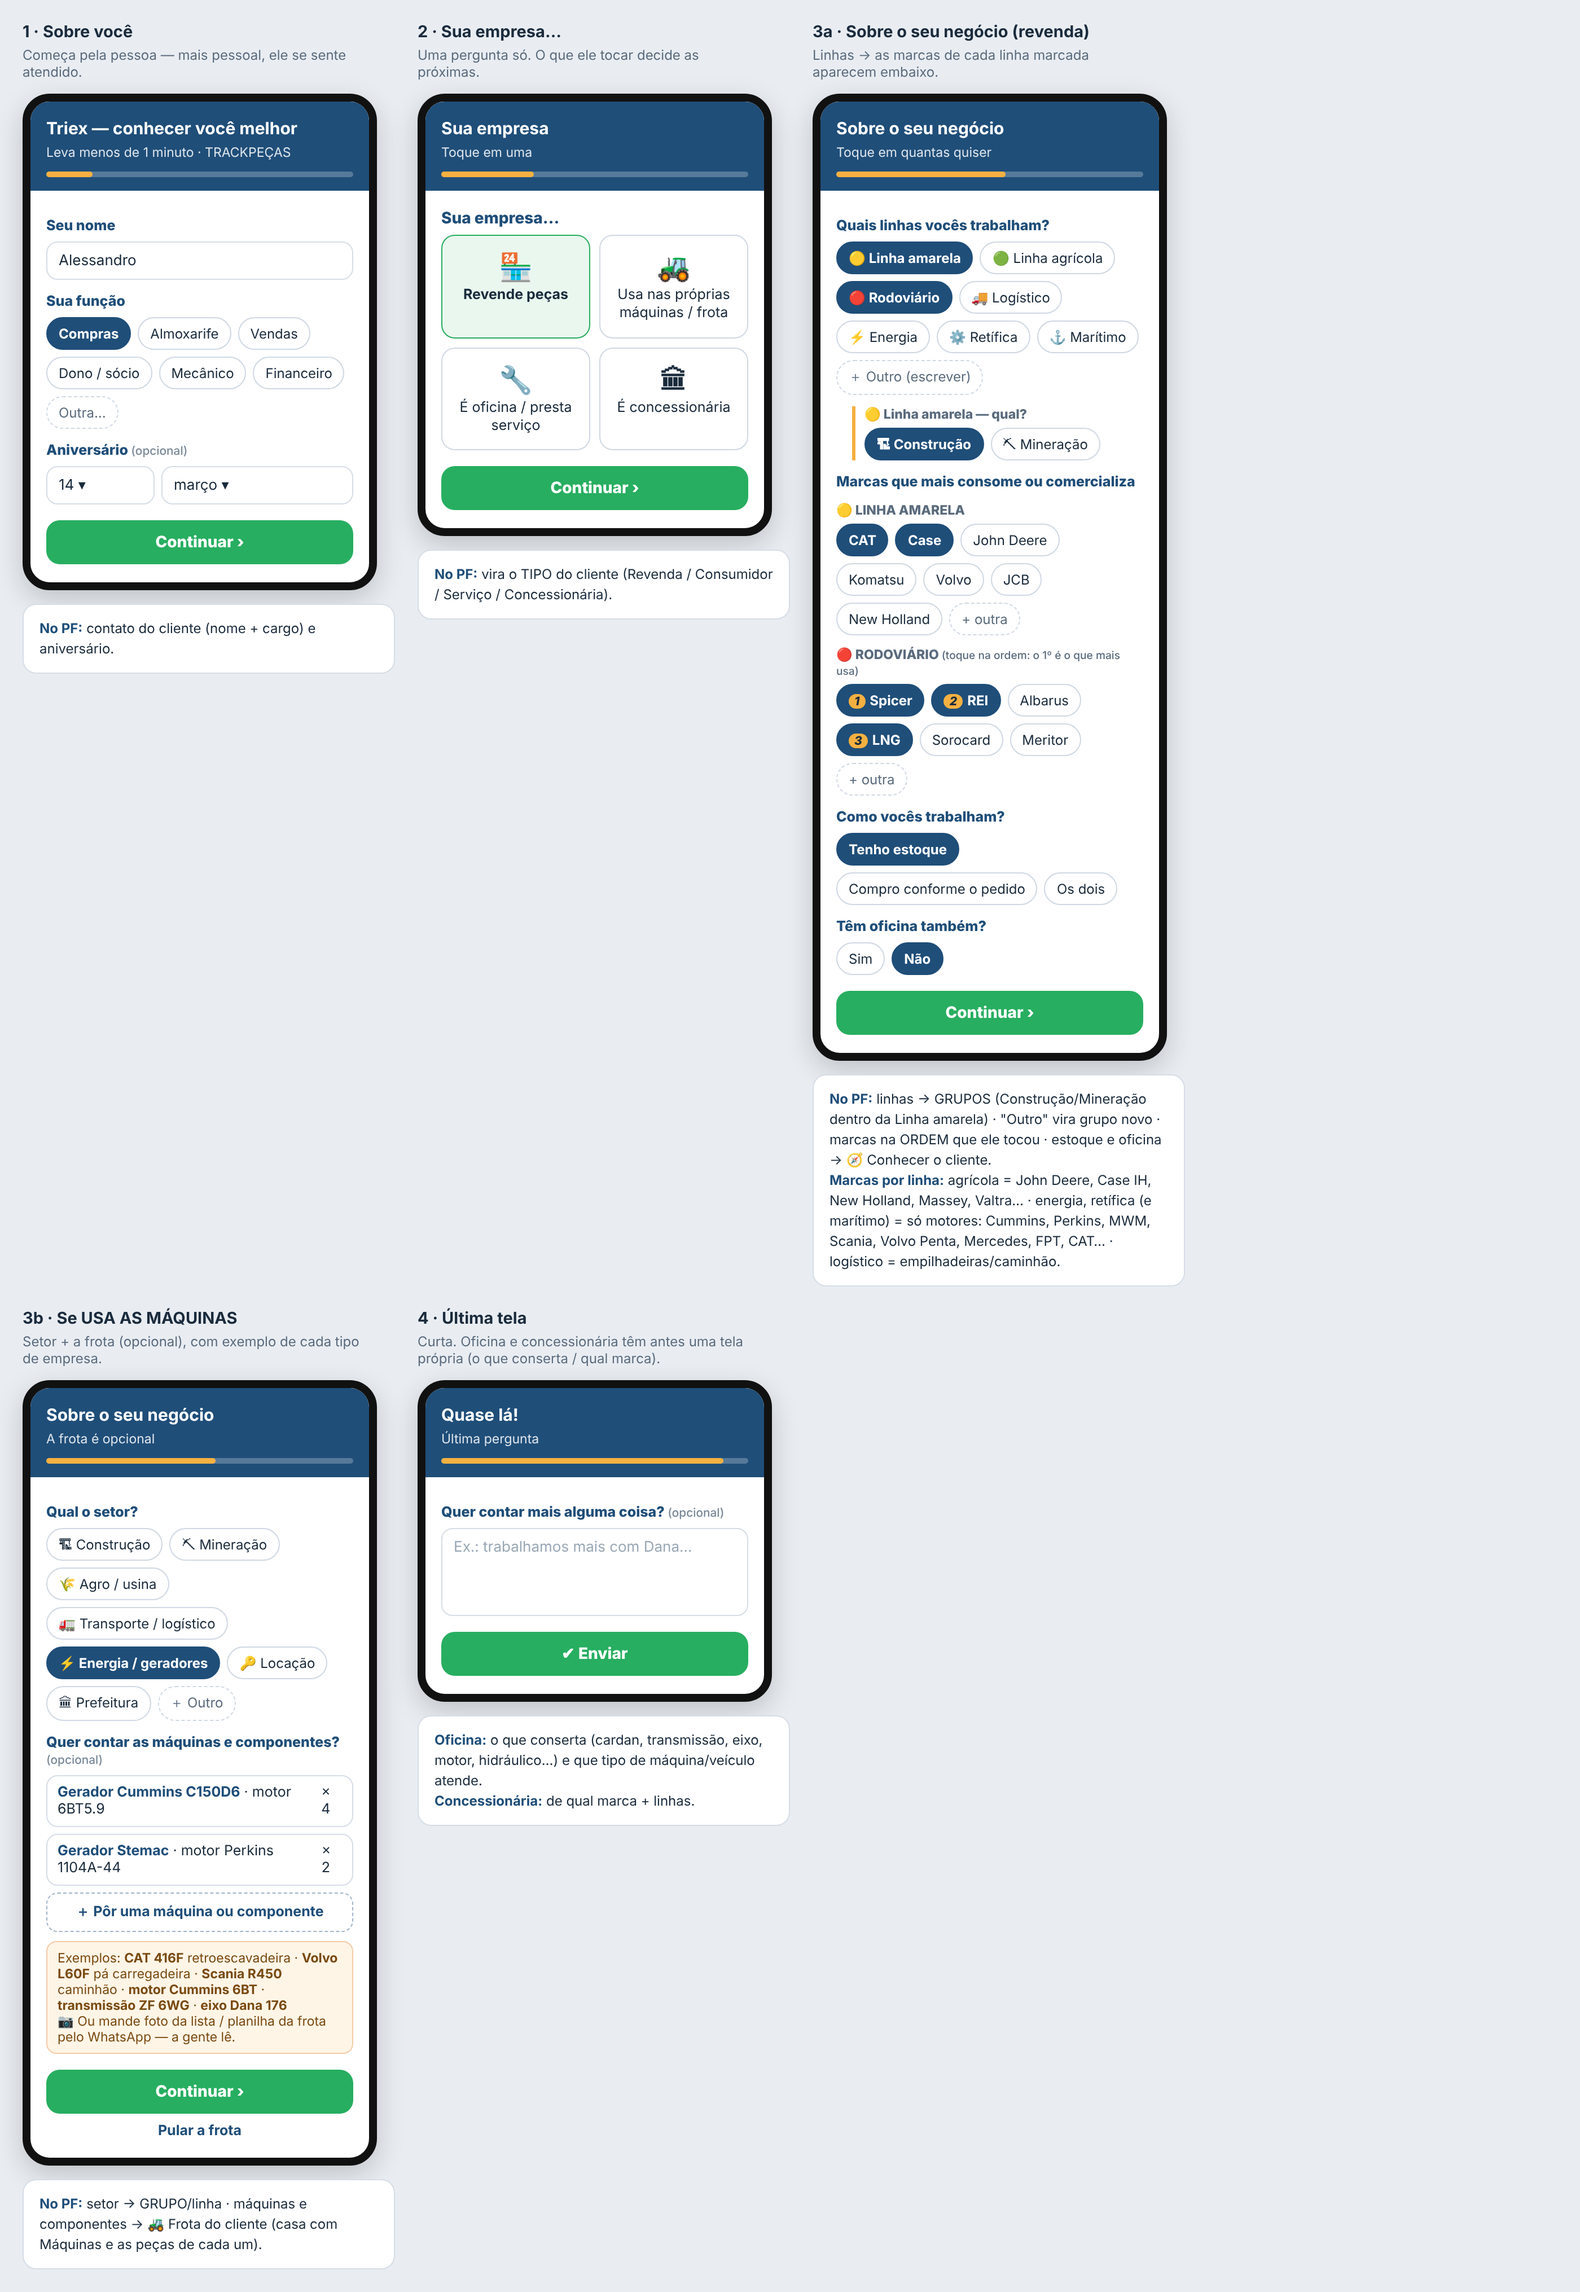
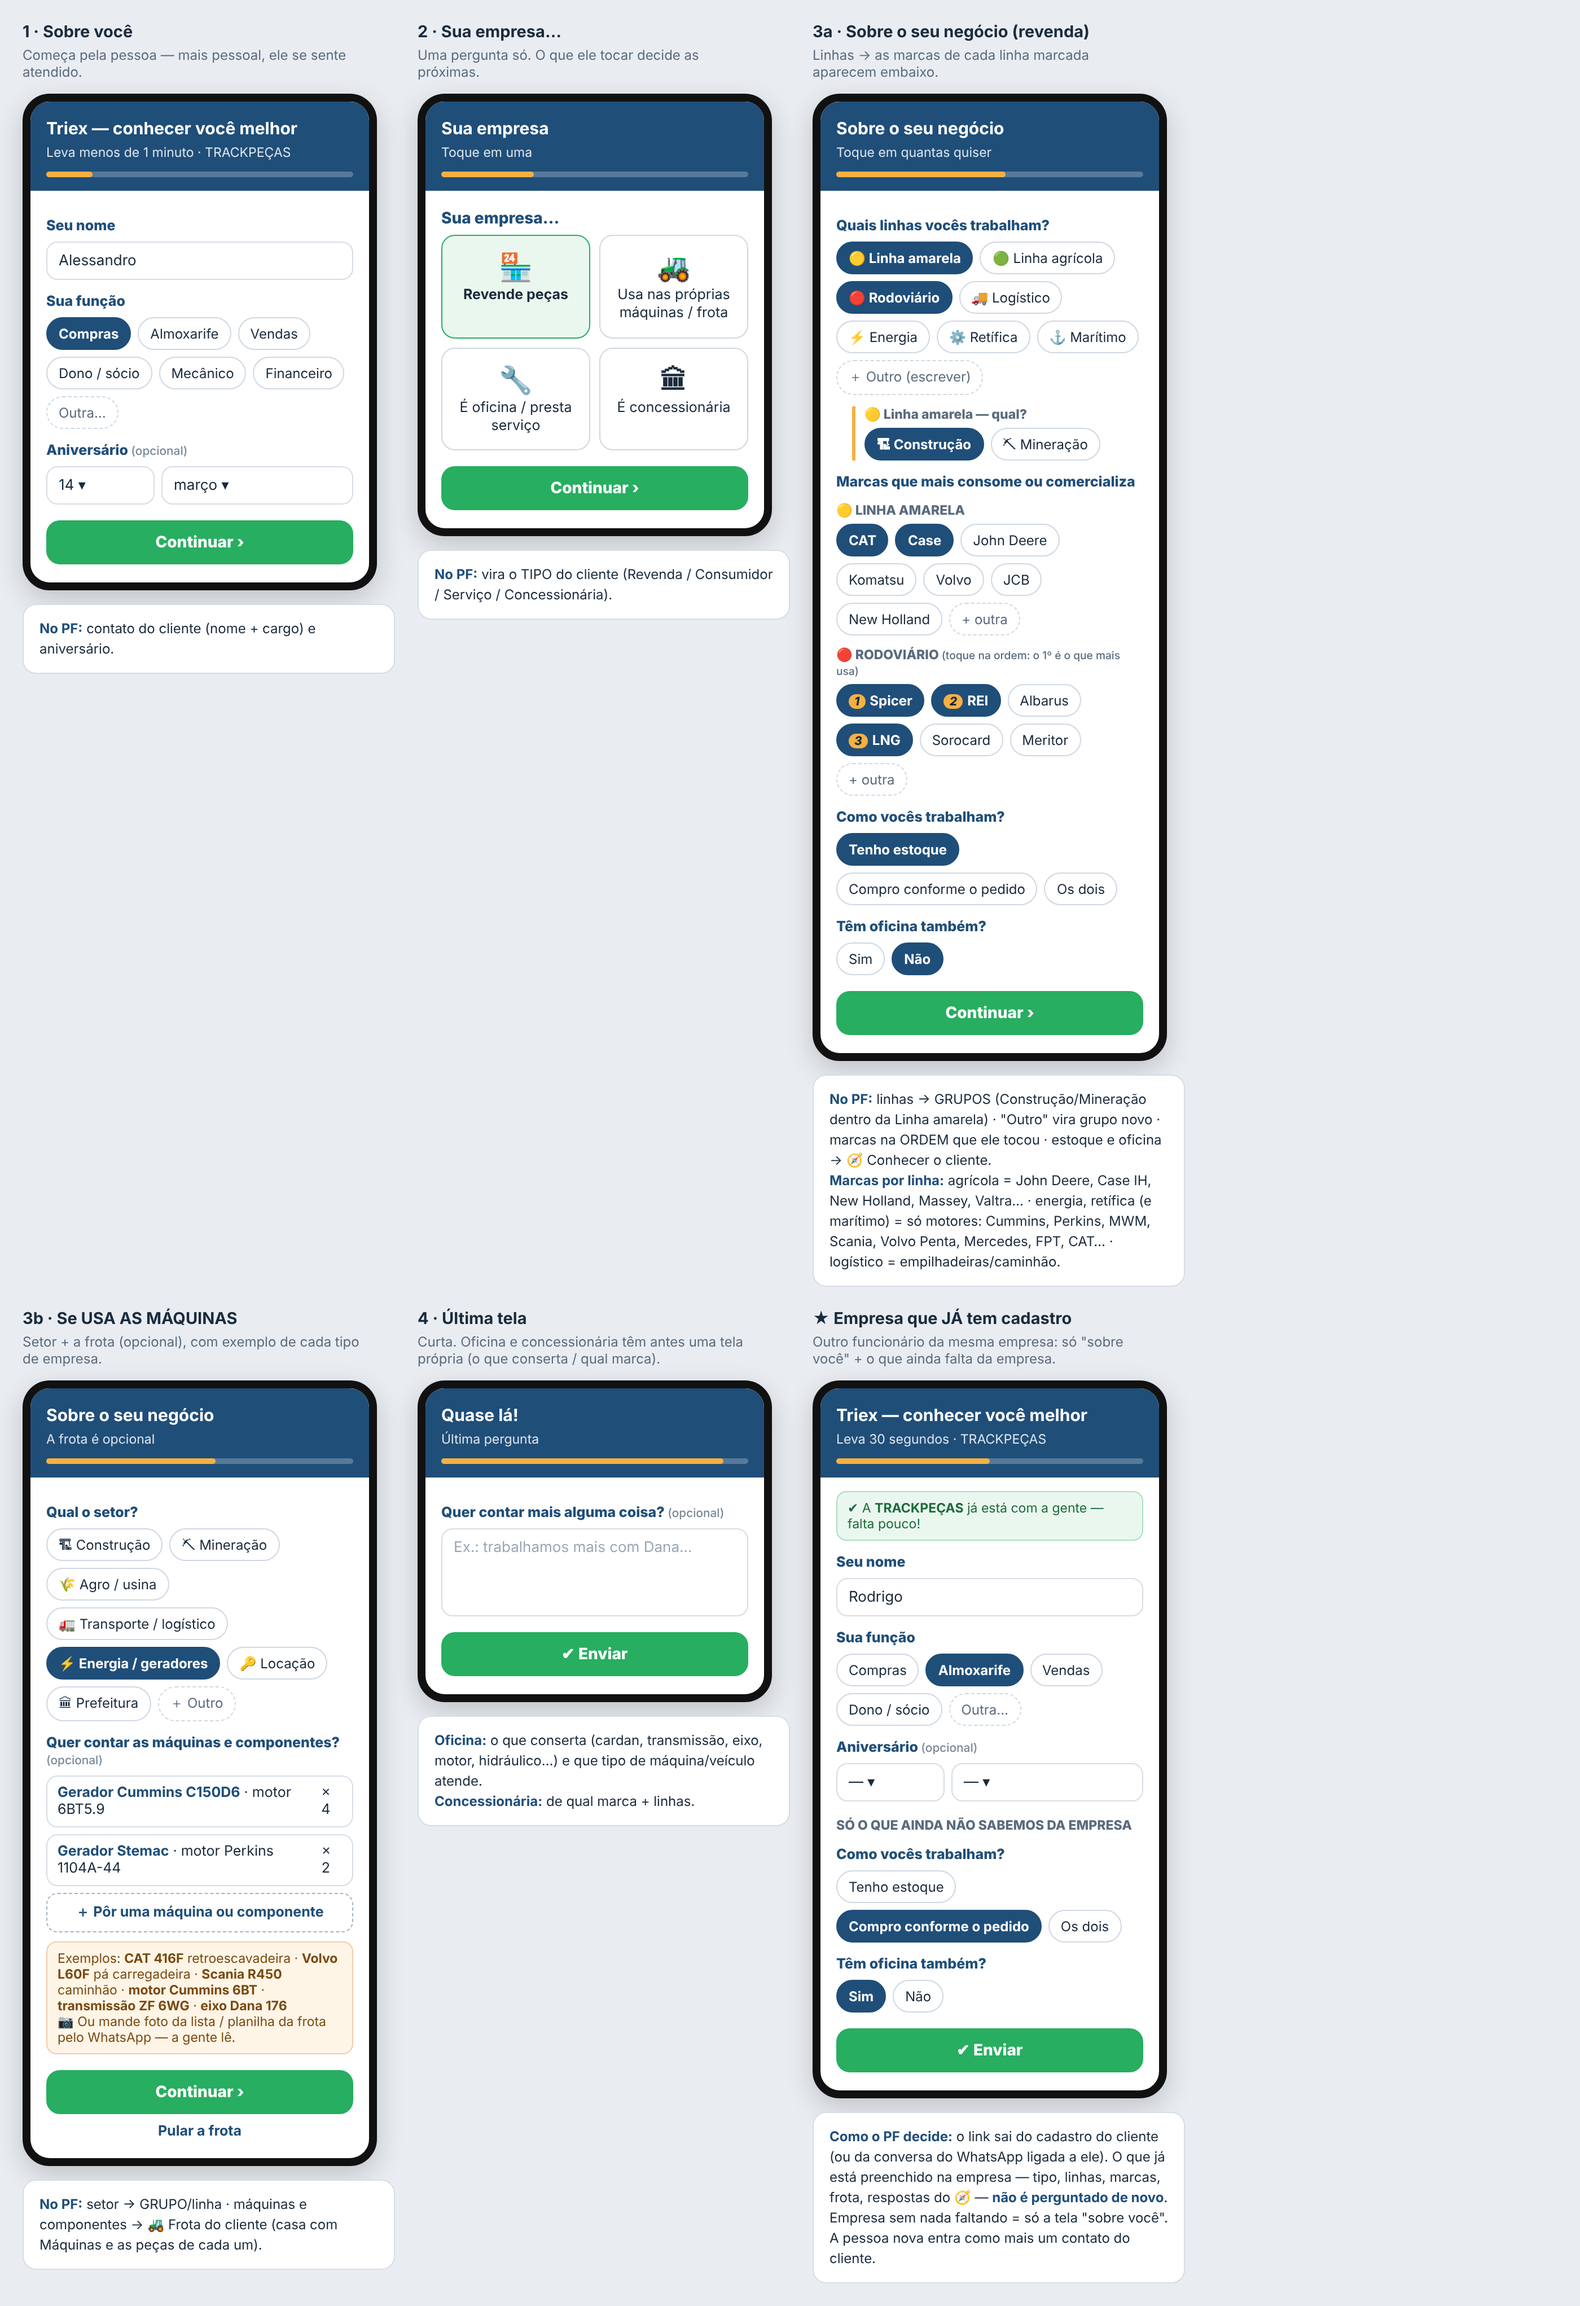
Prévia link cliente: empresa já cadastrada pergunta só o que falta
Claude-Session: https://claude.ai/code/session_01F72sZme4dRUNihD4LsDtmk

diff --git a/docs/referencias/cliente-preenche/previa2.html b/docs/referencias/cliente-preenche/previa2.html
@@ -36,4 +36,15 @@ body{margin:0;font-family:Segoe UI,Inter,Arial,sans-serif;background:#e9edf2;col
 <div class="col"><h2>3a · Sobre o seu negócio (revenda)</h2><p class="sub">Linhas → as marcas de cada linha marcada aparecem embaixo.</p><div class="tel"><div class="top"><b>Sobre o seu negócio</b><small>Toque em quantas quiser</small><div class="prog"><i style="width:55%"></i></div></div><div class="bd"><div class="q">Quais linhas vocês trabalham?</div><div class="ch"><span class="on">🟡 Linha amarela</span><span>🟢 Linha agrícola</span><span class="on">🔴 Rodoviário</span><span>🚚 Logístico</span><span>⚡ Energia</span><span>⚙ Retífica</span><span>⚓ Marítimo</span><span class="ot">＋ Outro (escrever)</span></div><div class="sublin"><div class="mt">🟡 Linha amarela — qual?</div><div class="ch"><span class="on">🏗 Construção</span><span>⛏ Mineração</span></div></div><div class="q">Marcas que mais consome ou comercializa</div><div class="mt">🟡 LINHA AMARELA</div><div class="ch"><span class="on">CAT</span><span class="on">Case</span><span>John Deere</span><span>Komatsu</span><span>Volvo</span><span>JCB</span><span>New Holland</span><span class="ot">+ outra</span></div><div class="mt">🔴 RODOVIÁRIO <small style="font-weight:500">(toque na ordem: o 1º é o que mais usa)</small></div><div class="ch"><span class="on"><i class="ord">1</i>Spicer</span><span class="on"><i class="ord">2</i>REI</span><span>Albarus</span><span class="on"><i class="ord">3</i>LNG</span><span>Sorocard</span><span>Meritor</span><span class="ot">+ outra</span></div><div class="q">Como vocês trabalham?</div><div class="ch"><span class="on">Tenho estoque</span><span>Compro conforme o pedido</span><span>Os dois</span></div><div class="q">Têm oficina também?</div><div class="ch"><span>Sim</span><span class="on">Não</span></div><div class="btn">Continuar ›</div></div></div><div class="leg"><b>No PF:</b> linhas → GRUPOS (Construção/Mineração dentro da Linha amarela) · "Outro" vira grupo novo · marcas na ORDEM que ele tocou · estoque e oficina → 🧭 Conhecer o cliente.<br><b>Marcas por linha:</b> agrícola = John Deere, Case IH, New Holland, Massey, Valtra… · energia, retífica (e marítimo) = só motores: Cummins, Perkins, MWM, Scania, Volvo Penta, Mercedes, FPT, CAT… · logístico = empilhadeiras/caminhão.</div></div>
 <div class="col"><h2>3b · Se USA AS MÁQUINAS</h2><p class="sub">Setor + a frota (opcional), com exemplo de cada tipo de empresa.</p><div class="tel"><div class="top"><b>Sobre o seu negócio</b><small>A frota é opcional</small><div class="prog"><i style="width:55%"></i></div></div><div class="bd"><div class="q">Qual o setor?</div><div class="ch"><span>🏗 Construção</span><span>⛏ Mineração</span><span>🌾 Agro / usina</span><span>🚛 Transporte / logístico</span><span class="on">⚡ Energia / geradores</span><span>🔑 Locação</span><span>🏛 Prefeitura</span><span class="ot">＋ Outro</span></div><div class="q">Quer contar as máquinas e componentes? <small>(opcional)</small></div><div class="fr"><span><b>Gerador Cummins C150D6</b> · motor 6BT5.9</span><span>× 4</span></div><div class="fr"><span><b>Gerador Stemac</b> · motor Perkins 1104A-44</span><span>× 2</span></div><div class="add">＋ Pôr uma máquina ou componente</div><div class="dica">Exemplos: <b>CAT 416F</b> retroescavadeira · <b>Volvo L60F</b> pá carregadeira · <b>Scania R450</b> caminhão · <b>motor Cummins 6BT</b> · <b>transmissão ZF 6WG</b> · <b>eixo Dana 176</b><br>📷 Ou mande foto da lista / planilha da frota pelo WhatsApp — a gente lê.</div><div class="btn">Continuar ›</div><div class="btn2">Pular a frota</div></div></div><div class="leg"><b>No PF:</b> setor → GRUPO/linha · máquinas e componentes → 🚜 Frota do cliente (casa com Máquinas e as peças de cada um).</div></div>
 <div class="col"><h2>4 · Última tela</h2><p class="sub">Curta. Oficina e concessionária têm antes uma tela própria (o que conserta / qual marca).</p><div class="tel"><div class="top"><b>Quase lá!</b><small>Última pergunta</small><div class="prog"><i style="width:92%"></i></div></div><div class="bd"><div class="q">Quer contar mais alguma coisa? <small>(opcional)</small></div><div class="in ph" style="height:60px">Ex.: trabalhamos mais com Dana…</div><div class="btn">✔ Enviar</div></div></div><div class="leg"><b>Oficina:</b> o que conserta (cardan, transmissão, eixo, motor, hidráulico…) e que tipo de máquina/veículo atende.<br><b>Concessionária:</b> de qual marca + linhas.</div></div>
+<div class="col"><h2>★ Empresa que JÁ tem cadastro</h2><p class="sub">Outro funcionário da mesma empresa: só "sobre você" + o que ainda falta da empresa.</p>
+<div class="tel"><div class="top"><b>Triex — conhecer você melhor</b><small>Leva 30 segundos · TRACKPEÇAS</small><div class="prog"><i style="width:50%"></i></div></div><div class="bd">
+<div class="dica" style="background:#EAF7EF;border-color:#A9DFBF;color:#1E6B3A;margin-top:0">✔ A <b>TRACKPEÇAS</b> já está com a gente — falta pouco!</div>
+<div class="q">Seu nome</div><div class="in">Rodrigo</div>
+<div class="q">Sua função</div><div class="ch"><span>Compras</span><span class="on">Almoxarife</span><span>Vendas</span><span>Dono / sócio</span><span class="ot">Outra…</span></div>
+<div class="q">Aniversário <small>(opcional)</small></div><div style="display:flex;gap:6px"><div class="in" style="flex:1">— ▾</div><div class="in" style="flex:2">— ▾</div></div>
+<div class="mt" style="margin-top:14px">SÓ O QUE AINDA NÃO SABEMOS DA EMPRESA</div>
+<div class="q">Como vocês trabalham?</div><div class="ch"><span>Tenho estoque</span><span class="on">Compro conforme o pedido</span><span>Os dois</span></div>
+<div class="q">Têm oficina também?</div><div class="ch"><span class="on">Sim</span><span>Não</span></div>
+<div class="btn">✔ Enviar</div></div></div>
+<div class="leg"><b>Como o PF decide:</b> o link sai do cadastro do cliente (ou da conversa do WhatsApp ligada a ele). O que já está preenchido na empresa — tipo, linhas, marcas, frota, respostas do 🧭 — <b>não é perguntado de novo</b>. Empresa sem nada faltando = só a tela "sobre você". A pessoa nova entra como mais um contato do cliente.</div></div>
 </div></body></html>
